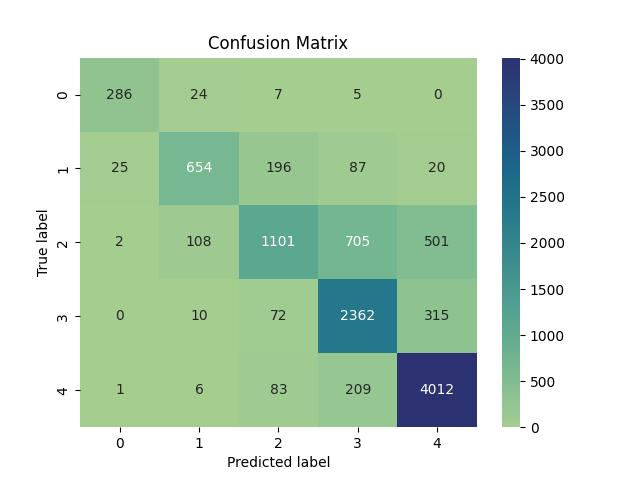
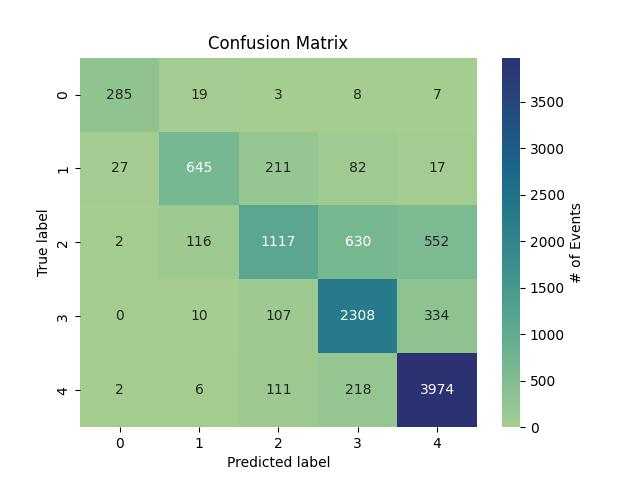
Add label to confusion matrix colorbar. Update Readme.

diff --git a/src/main_classification.py b/src/main_classification.py
@@ -25,24 +25,23 @@ from ml_framework.data_classification.ann_tf_classifier import ANN_TF_Classifier
 from ml_framework.tools.helper_functions import get_workspace_path
 
 
-this_filename = os.path.split(os.path.abspath(__file__))[1]
-logger = logging.getLogger(this_filename)
-logging.basicConfig(
-    filename=this_filename.replace(".py", ".log"),
-    encoding="utf-8",
-    level=logging.DEBUG,
-    format="%(parent)s - %(asctime)s - %(name)s - %(levelname)s - %(message)s",
-)
+# this_filename = os.path.split(os.path.abspath(__file__))[1]
+# logger = logging.getLogger(this_filename)
+# logging.basicConfig(
+#     filename=this_filename.replace(".py", ".log"),
+#     encoding="utf-8",
+#     level=logging.DEBUG,
+#     format="%(module)s - %(parent)s - %(asctime)s - %(name)s - %(levelname)s - %(message)s",
+# )
 
 matplotlib.use("Agg")
-logger.debug(
-    'matplotlib.use("Agg") must be called to avoid crashing because of image plotting'
-)
 
-
-logger.info("info level log message test")
-logger.warning("warning level log message test")
-logger.error("error level log message test")
+# logger.debug(
+#     'matplotlib.use("Agg") must be called to avoid crashing because of image plotting'
+# )
+# logger.info("info level log message test")
+# logger.warning("warning level log message test")
+# logger.error("error level log message test")
 
 
 # Set Data path
@@ -60,7 +59,7 @@ analyzer = ClassificationEDA(data_filepath)
 analyzer.read_data()
 analyzer.clean_data()
 analyzer.encode_data(target_col_name=target_col_name)
-# analyzer.visualize_data(target_col_name=target_col_name)
+analyzer.visualize_data(target_col_name=target_col_name)
 train_data, valid_data, test_data = analyzer.sample_data(
     target_col_name=target_col_name, train_perc=0.8, valid_perc=0.2
 )

diff --git a/src/ml_framework/data_classification/classifier.py b/src/ml_framework/data_classification/classifier.py
@@ -149,10 +149,16 @@ class Classifier:
 
     def plot_confusion_matrix(self) -> None:
         """Plots the confusion matrix."""
-        sns.heatmap(self.confusion_matrix, annot=True, fmt=".0f", cmap="crest")
+        sns.heatmap(
+            self.confusion_matrix,
+            annot=True,
+            fmt=".0f",
+            cmap="crest",
+            cbar_kws={"label": "# of Events"},
+        )
         plt.ylabel("True label")
         plt.xlabel("Predicted label")
-        plt.title("Confusion Matrix")
+        plt.title(f"{type(self).__name__}\nConfusion Matrix\n")
 
         suffix = "_" + type(self).__name__
 

diff --git a/README.md b/README.md
@@ -1,7 +1,3 @@
-```none
-no colors applied
-```
-
 # Machine Learning Framework
 
 This Python library facilitates the steps needed for the training and testing of machine-learning models dealing with structured data. The framework provides methods for data analysis, classification regression and clustering.
@@ -21,7 +17,7 @@ poetry build
 
 The wheel file itself can be used to install the library using [pip](https://pip.pypa.io/en/stable/):
 ```bash
-pip install ml_framework-0.1.0-py3-none-any.whl
+pip install path_to_wheelfile/ml_framework-0.1.0-py3-none-any.whl
 ```
 
 <br /><br /><br />
@@ -51,6 +47,15 @@ train_data, valid_data, test_data = analyzer.sample_data(
 
 #### Description of Categorical Features:
 ![Alt text](Images/Classification/Classification_EDA_Images/categorical_data_description.jpeg "")
+
+#### Boxplots showing the distribution of a given feature across target classes:
+![Alt text](Images/Classification/Classification_EDA_Images/boxplot_x.jpeg "")
+
+#### Histogramm showing the distribution of the features:
+![Alt text](Images/Classification/Classification_EDA_Images/histograms_numerical.jpeg "")
+
+#### Pair Plot showing correlation between features:
+![Alt text](Images/Classification/Classification_EDA_Images/correlation_matrix.jpeg "")
 
 #### Stratified Sampling to form the Train, Validation and Test Sets:
 Training Set
@@ -128,6 +133,12 @@ for classifier_name in classifiers_ls:
 <br />
 
 #### Example of output for the classification methods:
+
+#### Classification Confusion Matrix:
+![Alt text](Images/Classification/Classification_Modelling_Images/Confusion_Matrix_RandomForestClassifier.jpeg "")
+<br /><br />
+
+#### Performance metrics for all classifiers:
 ```console
                           Model  Precision    Recall  Accuracy  F1-Score
 0  LogisticRegressionClassifier   0.636091  0.520693  0.651469  0.541070
@@ -171,14 +182,14 @@ for regressor_name in regressors_ls:
 
 #### Example of output for the regression methods:
 ```console
-                    Model  R2_Score  ...  Mean_Absolute_Error  Mean_Absolute_Percentage_Error
-0         LinearRegressor  0.904075  ...           822.070293                        0.437571
-1           KNN_Regressor  0.959968  ...           400.844642                        0.113064
-2   DecisionTreeRegressor  0.952484  ...           435.645532                        0.109457
-3   RandomForestRegressor  0.982113  ...           274.680662                        0.070769
-4        XGBoostRegressor  0.982173  ...           276.939906                        0.073591
-5        ANN_TF_Regressor  0.975925  ...           322.883121                        0.088762
-6  SupportVectorRegressor  0.965810  ...           513.631381                        0.250324
+                    Model  R2_Score  Mean_Squared_Error  Root_Mean_Squared_Error  Mean_Absolute_Error  Mean_Absolute_Percentage_Error
+0         LinearRegressor  0.908591        1.404287e+06              1185.026250           796.390373                        0.442653
+1           KNN_Regressor  0.956235        6.723409e+05               819.963933           391.774657                        0.110497
+2   DecisionTreeRegressor  0.955435        6.846317e+05               827.424764           439.768585                        0.120691
+3   RandomForestRegressor  0.981591        2.828040e+05               531.793147           270.126756                        0.070488
+4        XGBoostRegressor  0.982977        2.615119e+05               511.382309           263.932371                        0.070356
+5        ANN_TF_Regressor  0.978419        3.315374e+05               575.792877           309.422360                        0.094138
+6  SupportVectorRegressor  0.977465        3.461919e+05               588.380725           339.591720                        0.112032
 ```
 
 #### Linear Regression:
